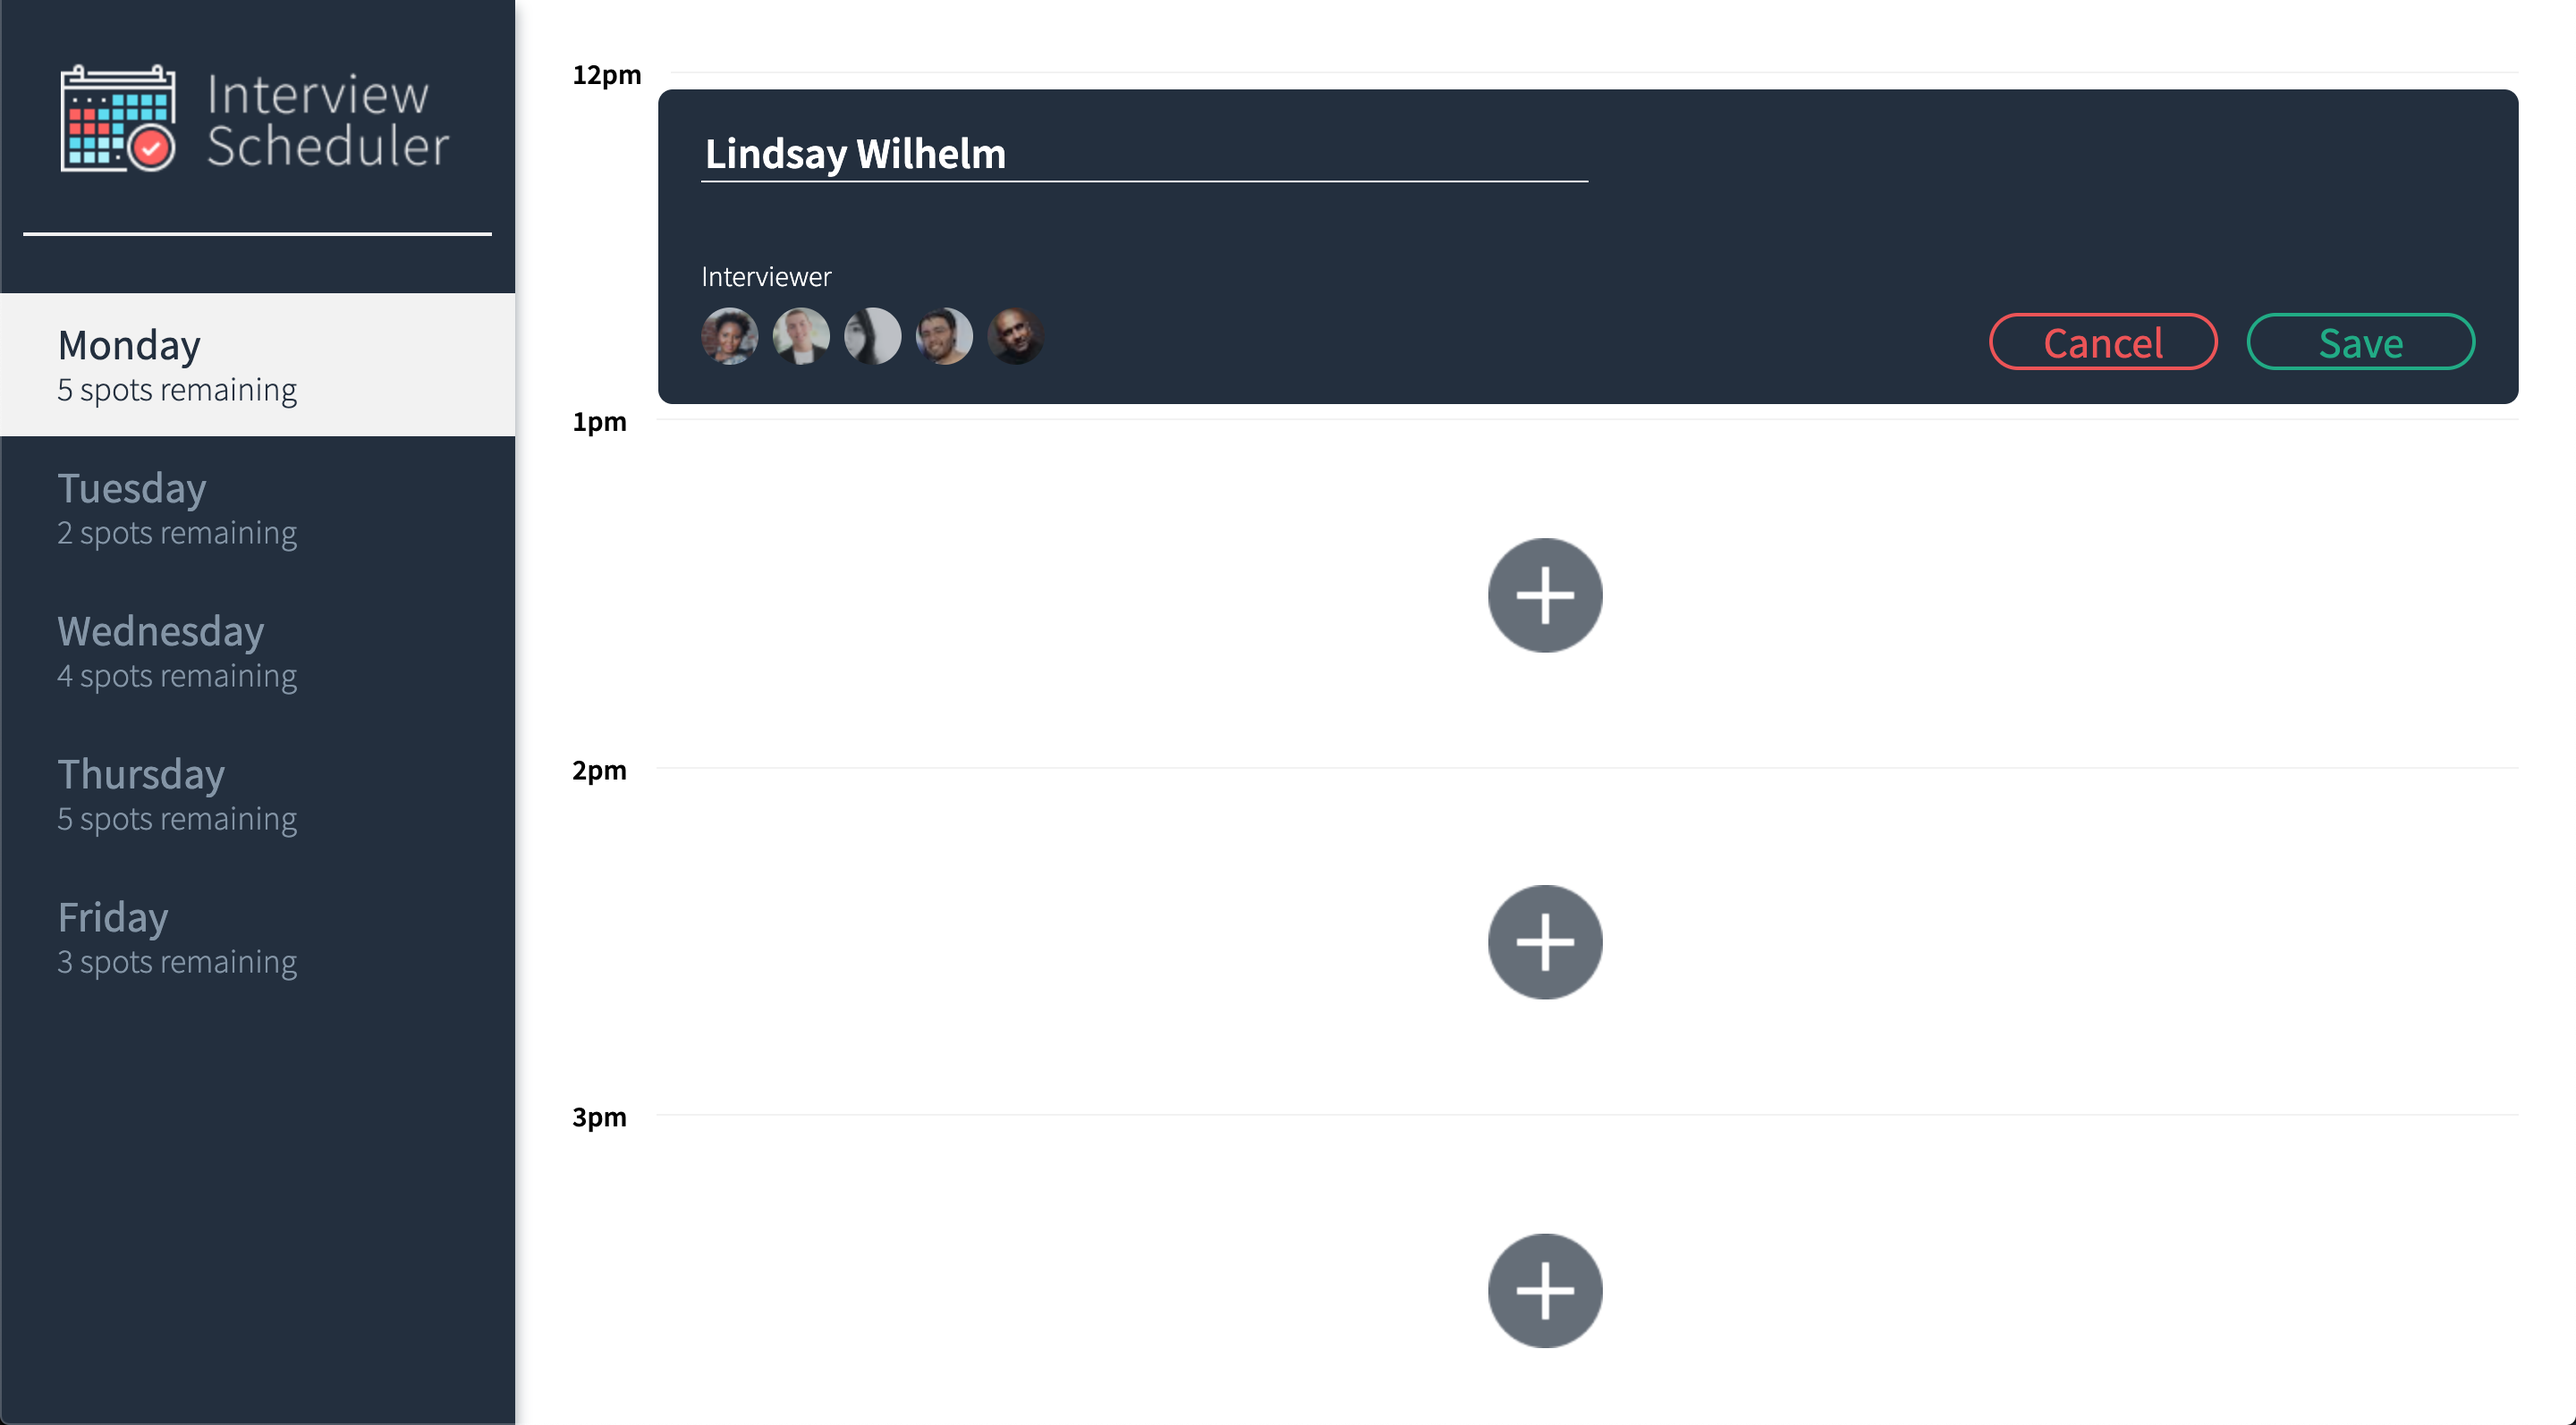
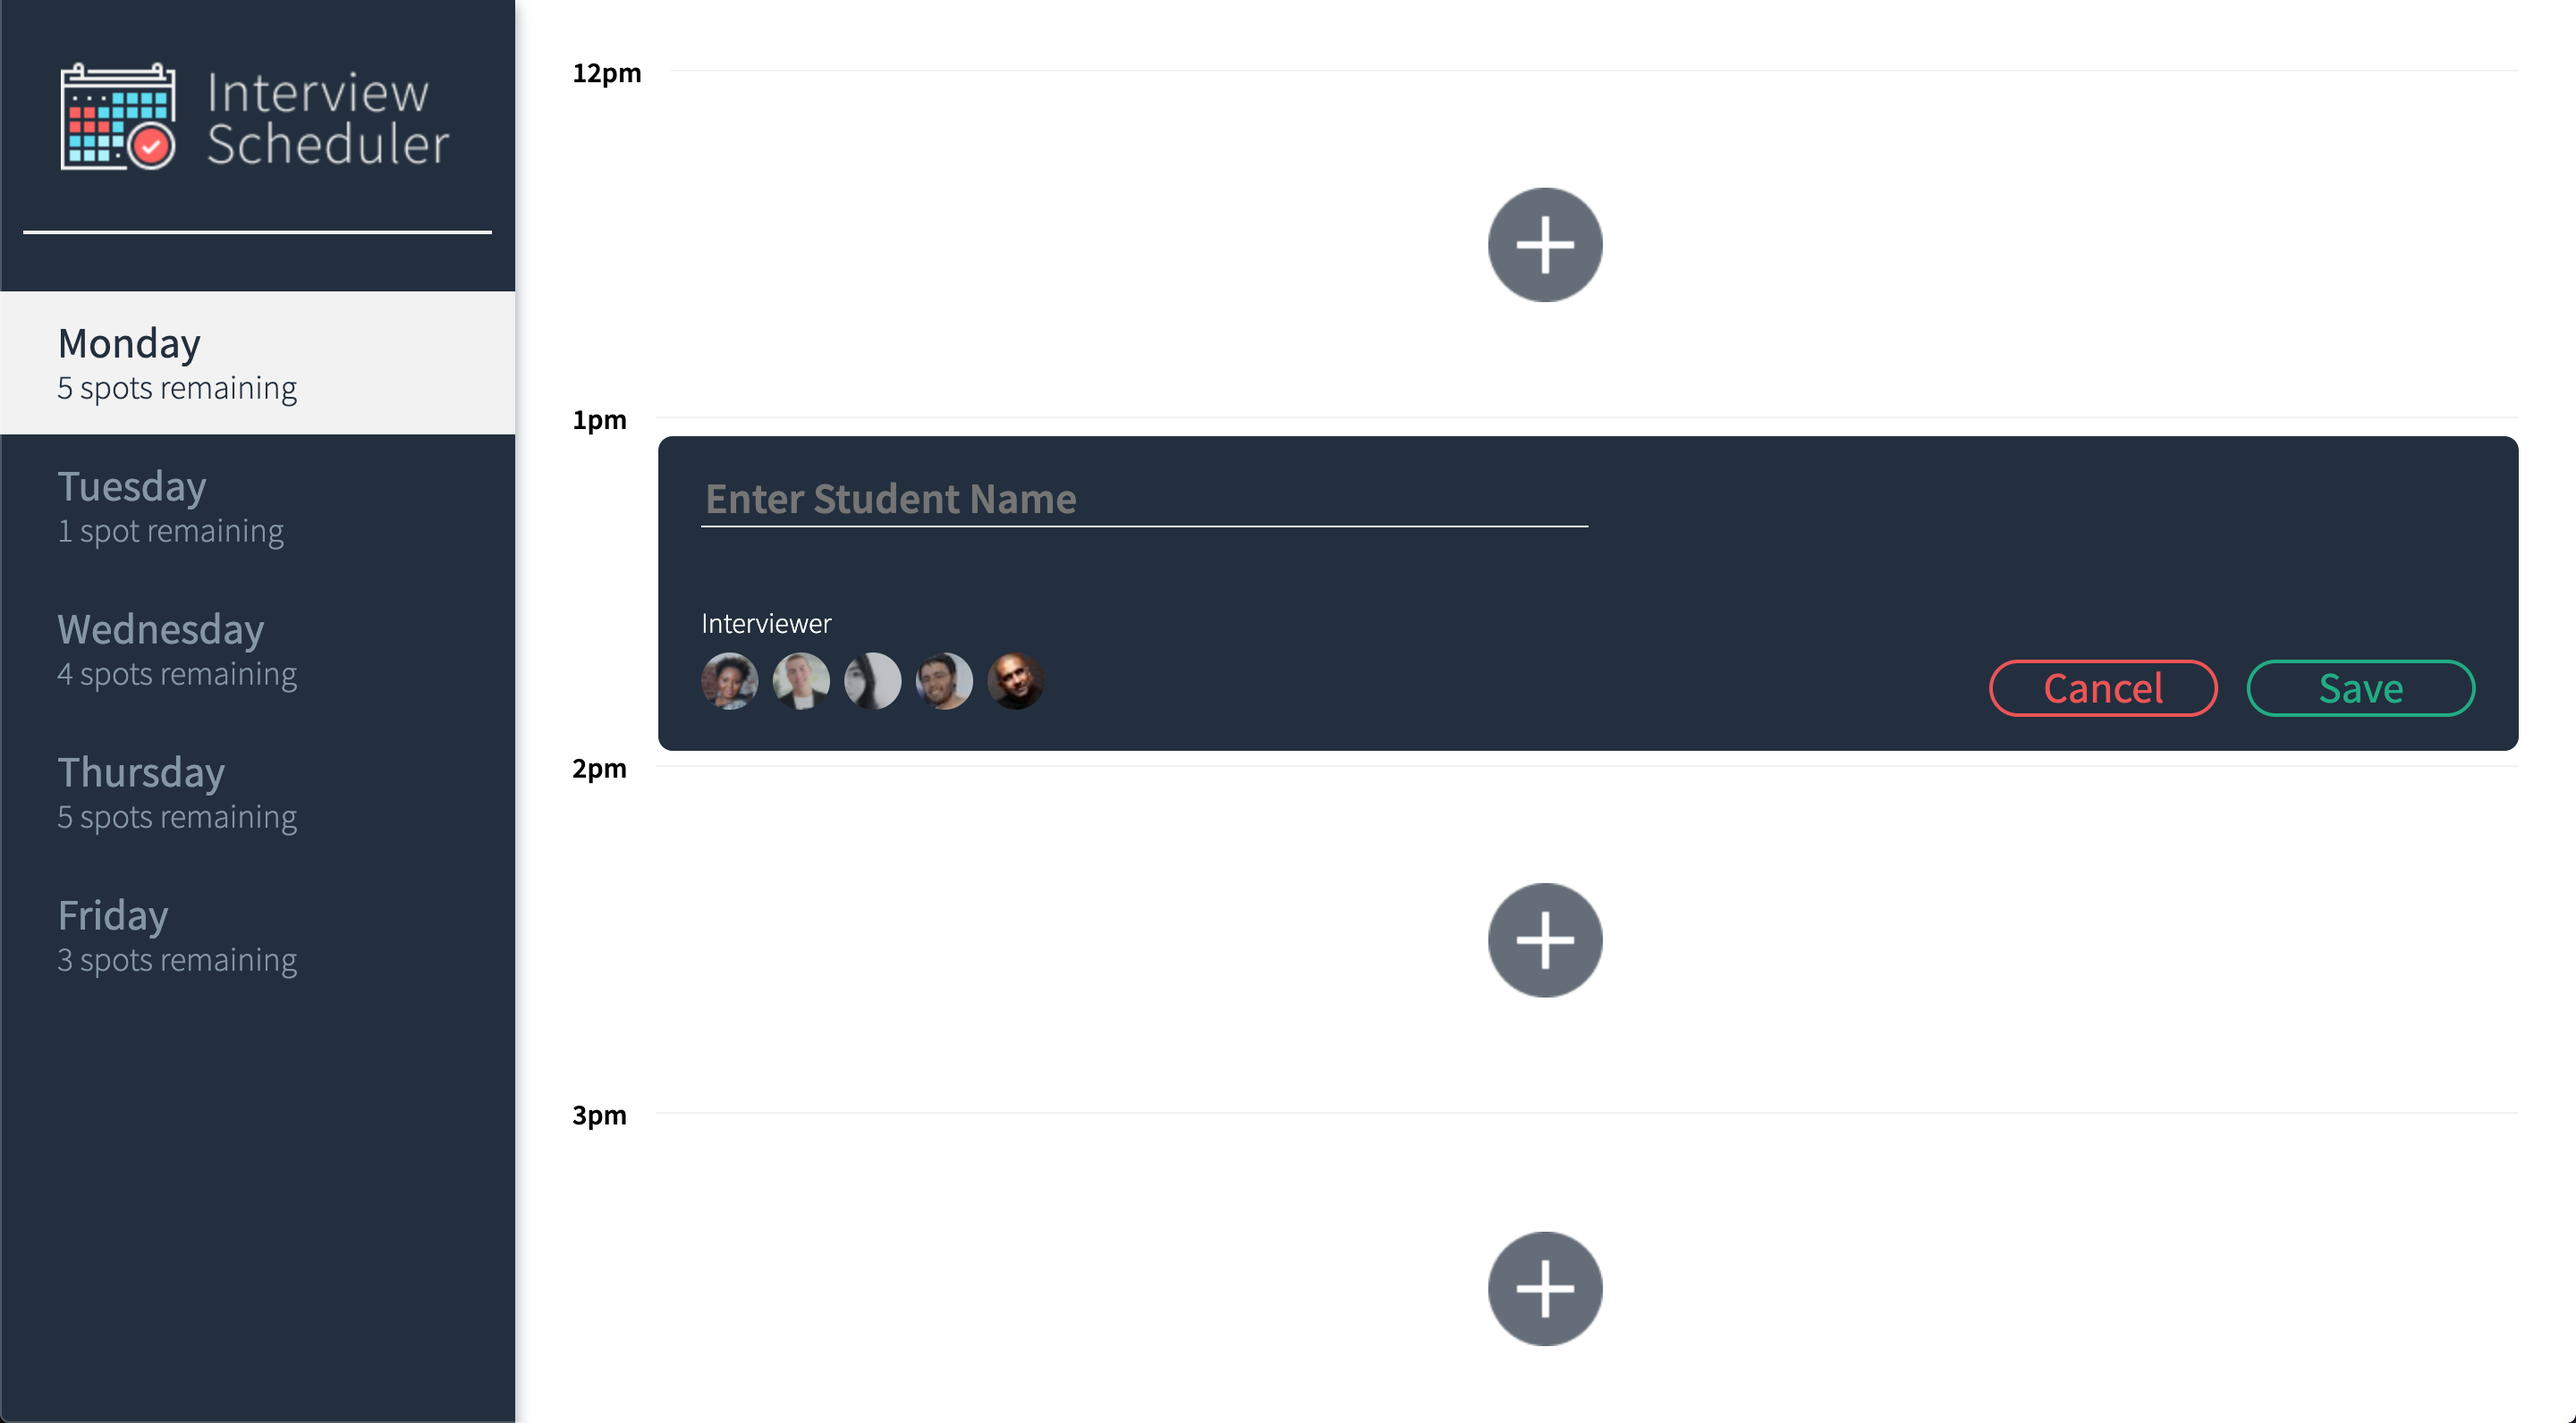
fixes DELETE transition and fixes updating spots issue

diff --git a/src/hooks/useApplicationData.js b/src/hooks/useApplicationData.js
@@ -41,22 +41,19 @@ const [state, setState] = useState({
         ...state.appointments[id],
         interview: { ...interview }
       };
+      
       const appointments = {
         ...state.appointments,
         [id]: appointment
       };
 
+      const updatedDays = updateSpots(state, appointments)
+      const newState = { ...state, appointments }
+
       return (
-        axios.put(`/api/appointments/${id}`, {
-        interview: interview
-      })
+        axios.put(`/api/appointments/${id}`, appointment)
       .then(() => {
-        const newState = {
-          ...state,
-          appointments
-        }
-        const updatedDays = updateSpots(newState, appointments)
-        setState(prev => ({ ...prev, appointments, updatedDays })) 
+        setState({ ...newState, days: updatedDays })
       })
     )
   }
@@ -70,15 +67,14 @@ const [state, setState] = useState({
       ...state.appointments,
       [id]: appointment
   }
+
+  const updatedDays = updateSpots(state, appointments)
+      const newState = { ...state, appointments }
+
     return (
-      axios.delete(`/api/appointments/${id}`)
+      axios.delete(`/api/appointments/${id}`, appointment)
       .then(() => {
-        const newState = {
-          ...state,
-          appointments
-        }
-        updateSpots(newState, appointments)
-        setState({ ...state, appointments, newState })
+        setState({ ...newState, days: updatedDays })
       })
     )
   }

diff --git a/src/components/Appointment/Form.js b/src/components/Appointment/Form.js
@@ -22,6 +22,11 @@ export default function Form(props) {
           setError("Student name cannot be blank");
           return;
         }
+
+        if (!interviewer) {
+            setError("Please select an interviewer")
+            return;
+        }
       
         setError("");
         props.onSave(name, interviewer);

diff --git a/src/components/Appointment/index.js b/src/components/Appointment/index.js
@@ -42,7 +42,7 @@ export default function Appointment(props) {
         transition(DELETING, true);
         props
          .cancelInterview(props.id)
-         .then(transition(EMPTY))
+         .then(() => transition(EMPTY))
          .catch(error => transition(ERROR_DELETE, true));
        }
 
